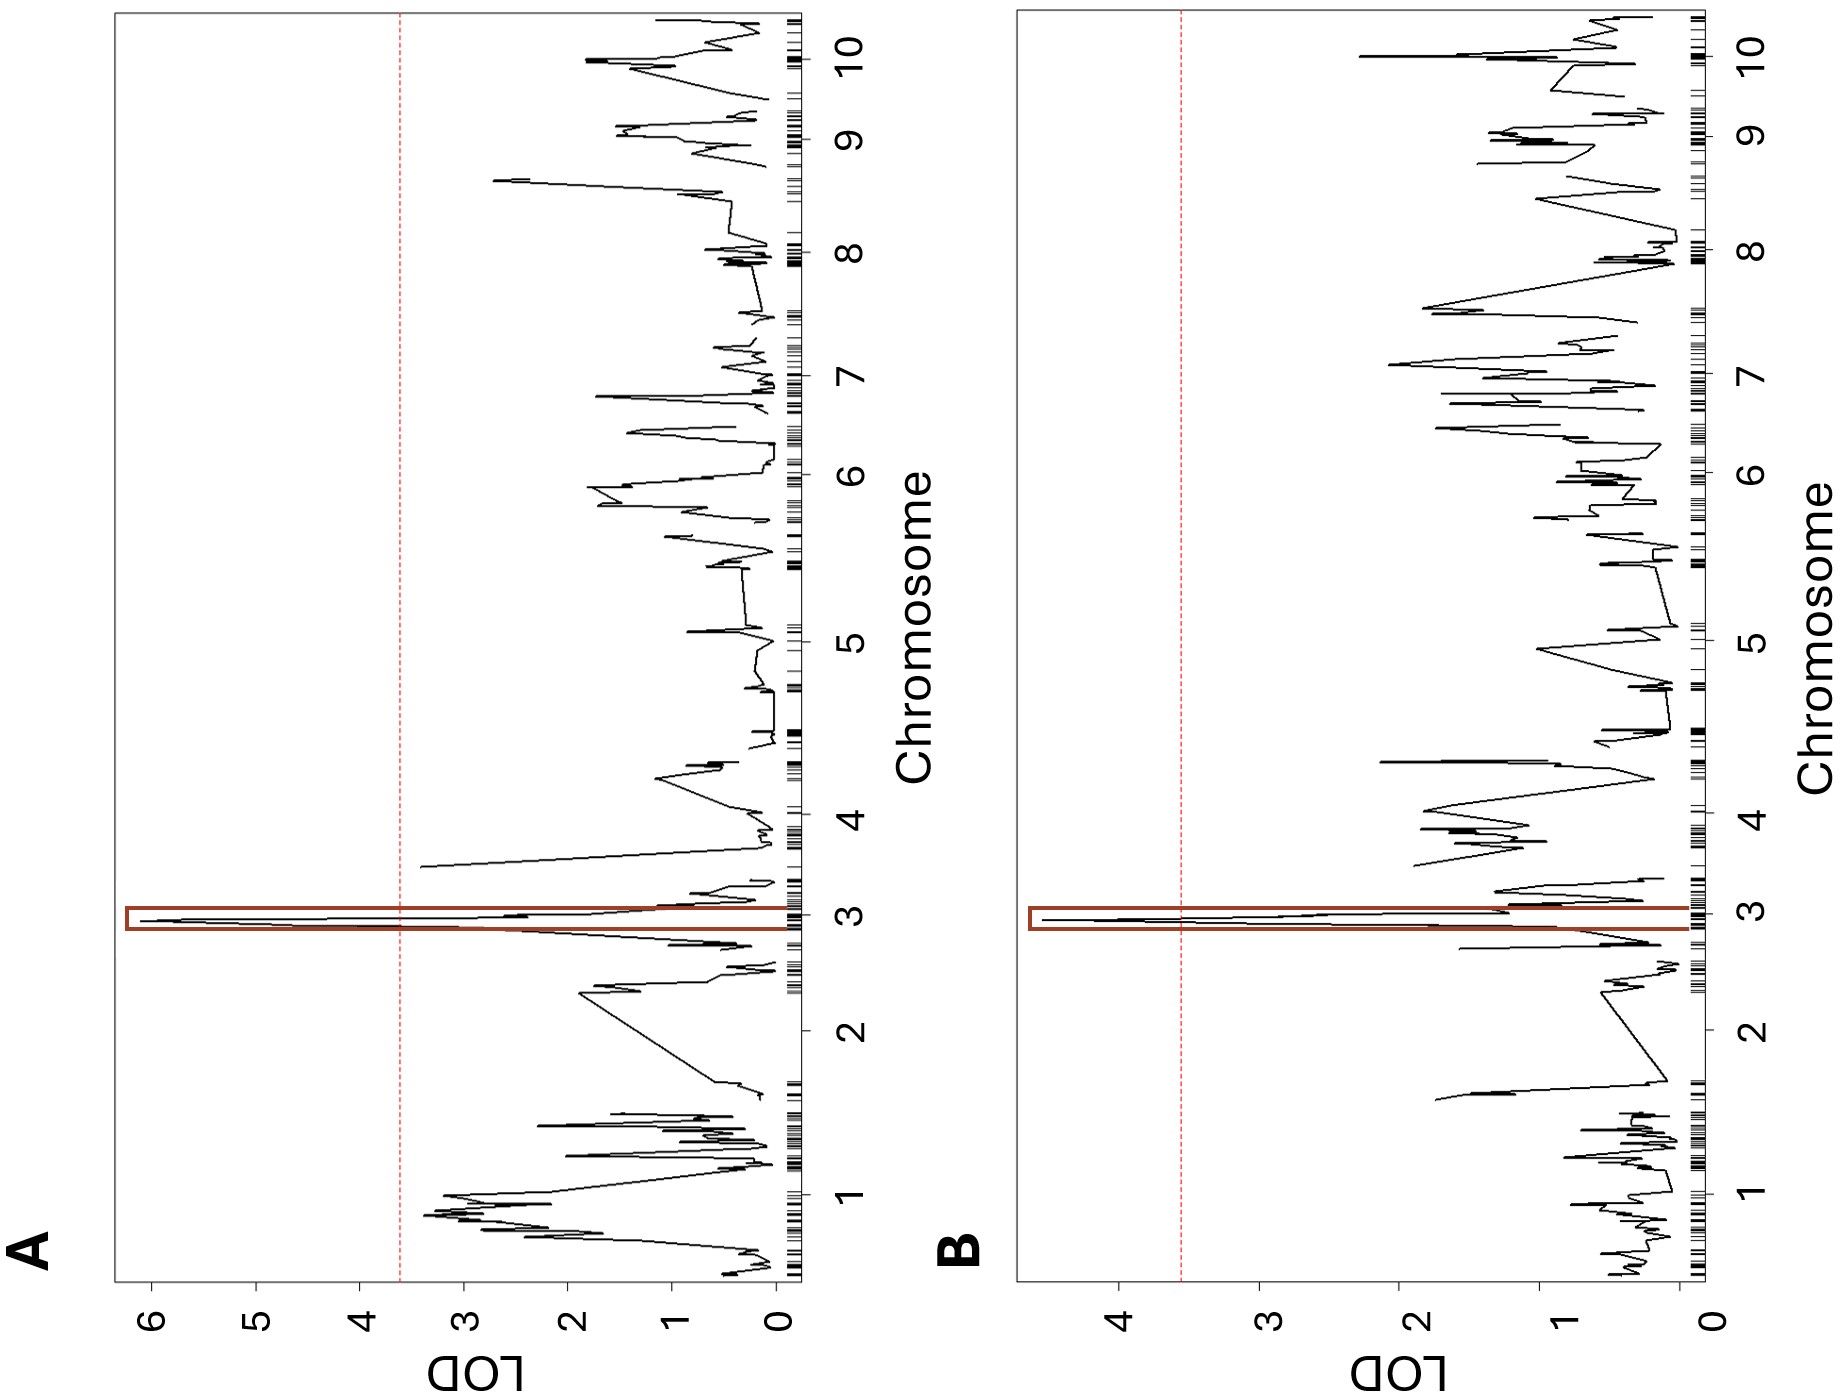
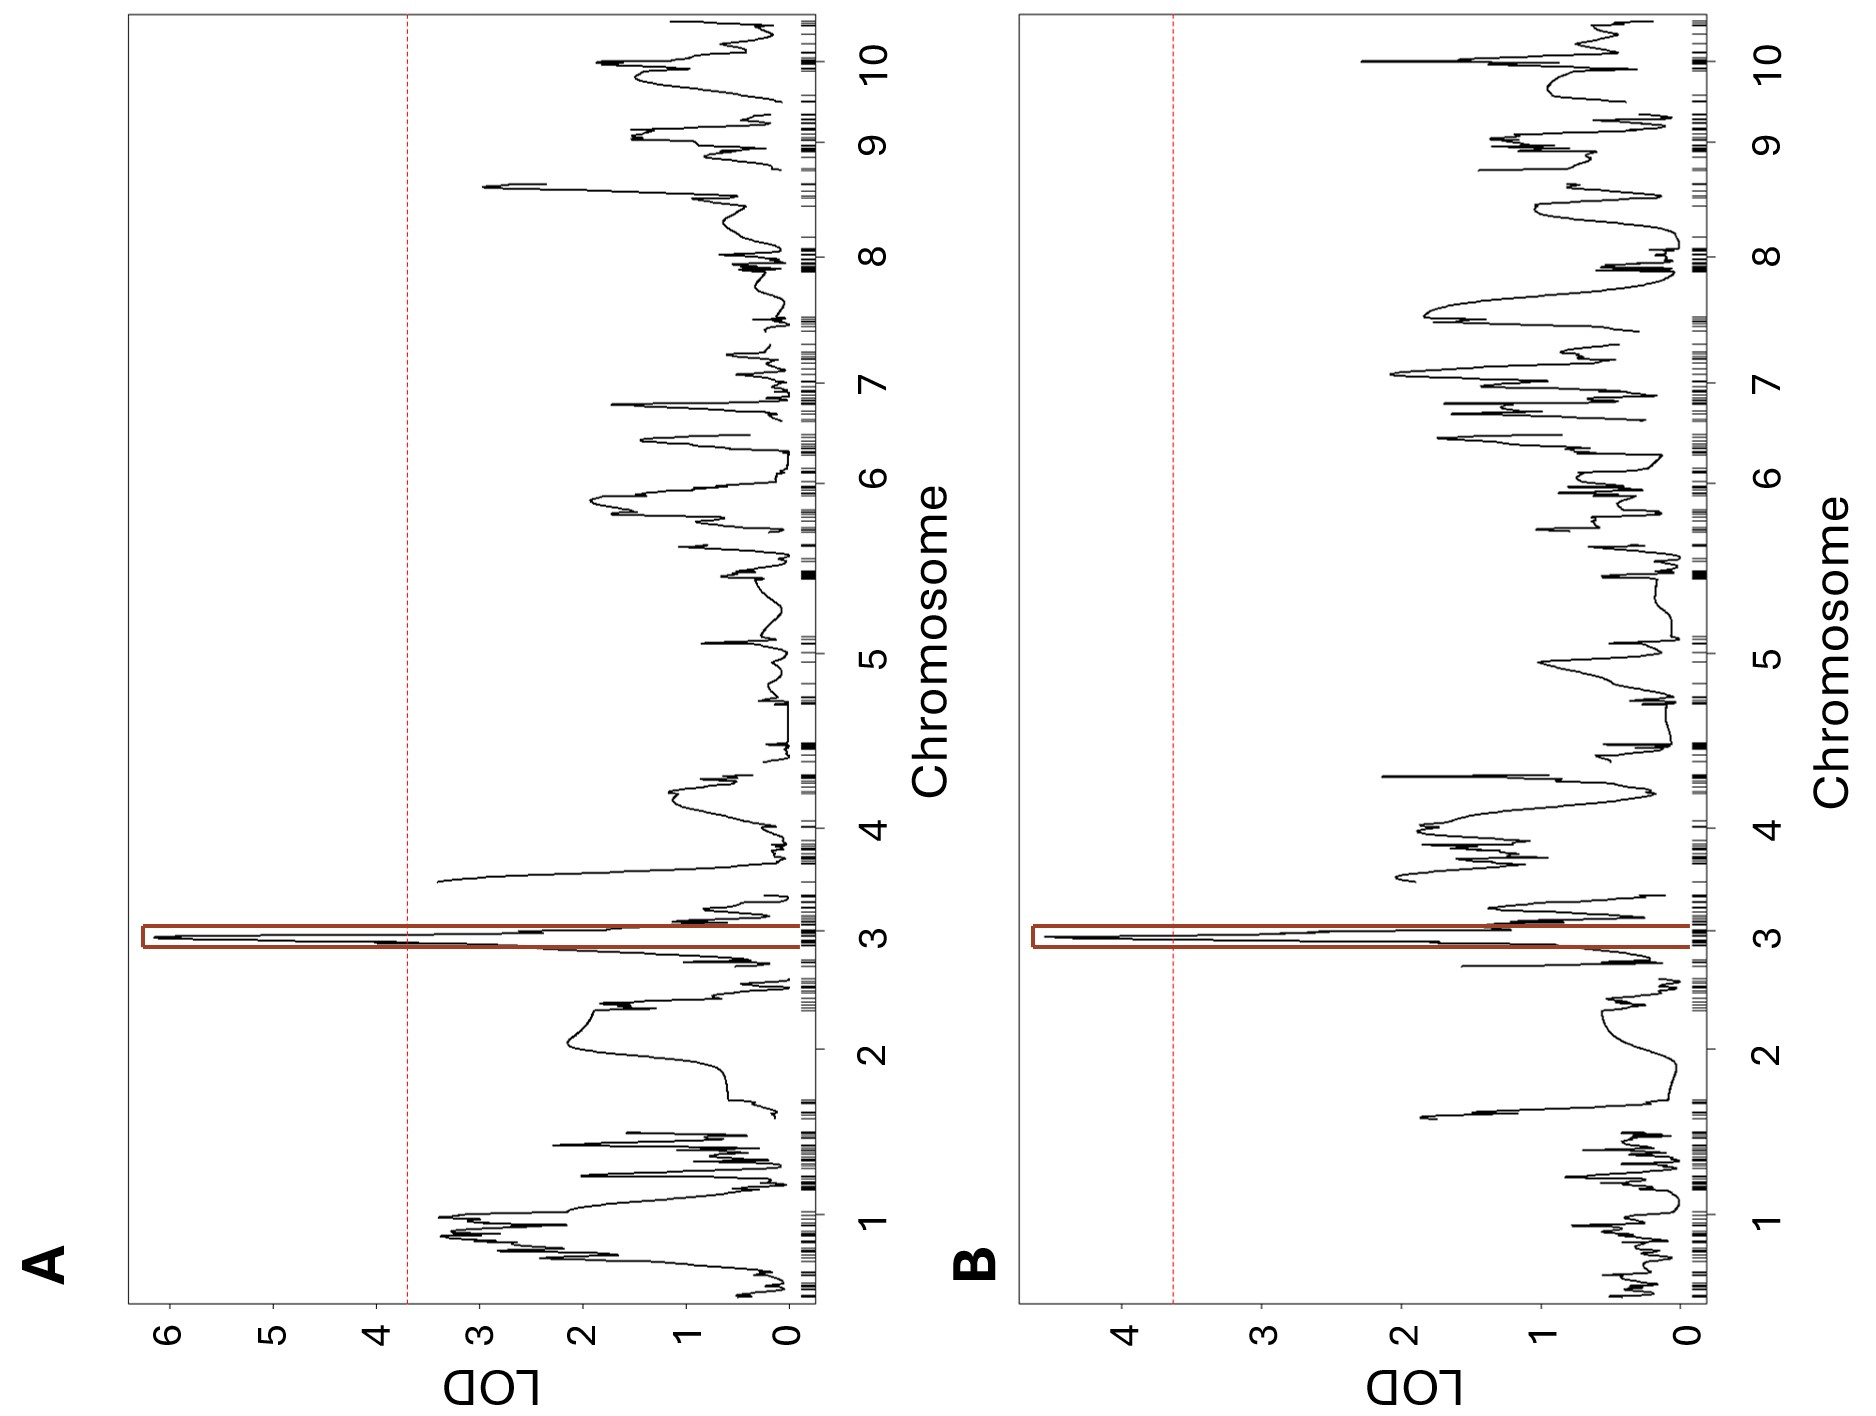
Updates from Overleaf

diff --git a/main.tex b/main.tex
@@ -355,7 +355,7 @@ Similarly, the broader Jarvis $F_{ST}$ outlier set revealed a stronger populatio
 
 We used a previously developed B64 $\times$ CML14 F$_{2:3}$ biparental population that had been used to map kernel free asparagine content (\cite{Fitzsimmons2026KernelKitchen}, InPrep). Although this population was originally selected for variation in asparagine rather than proline or aspartate, grain amino acid measurements for the same lines allowed us to test whether other amino acid traits also showed segregating genetic variation in this background. B64 and CML14 were not the most extreme lines for Pro and Asp in the Goodman–Buckler panel (Supplementary Fig. \ref{fig:suppfig_asp_pro_raw_values}). Thus, we treated this biparental family as an exploratory test of segregating amino acid variation. We focused on Pro and Asp because our other population data implicated these traits. Asp-family metabolism repeatedly emerged in the soil N GWAS and Indian Chief/Jarvis selection scans, while proline was strongly remodeled in Indian Chief and overlapped with recurrent-selection candidate regions.
 
-BLUPs for free Pro and Asp were calculated across two replicates and used for QTL mapping. Interval-mapping QTL scans were performed using Haley--Knott regression. The QTL scans for Pro and Asp identified the same QTL, while the three Asn traits identified another QTL (Fig. \ref{fig:fig6_qtl_pro_asp}). The genetic map consisted of 611 SNP markers (Fig. \ref{fig:fig6_qtl_pro_asp}) distributed across 10 linkage groups, and the significance threshold was determined after 1,000 permutations ($\alpha = 0.05$).
+BLUPs for free Pro and Asp were calculated across two replicates and used for QTL mapping. Interval-mapping QTL scans were performed using Haley--Knott regression. The QTL scans for Pro and Asp identified the same QTL, while the three Asn traits identified another QTL (Fig. \ref{fig:fig6_qtl_pro_asp}). The genetic map consisted of 611 SNP markers (Fig. \ref{fig:suppfig_genetic_map}, Supplementary Fig. ~\ref{fig:QTL_Aspartate}, Supplementary Fig. ~\ref{fig:QTL_Proline}) distributed across 10 linkage groups, and the significance threshold was determined after 1,000 permutations ($\alpha = 0.05$).
 
 % =========================
 % FIGURE 6
@@ -791,8 +791,48 @@ Estimated amino acid-derived nitrogen pools in Indian Chief and Jarvis at genera
     \label{fig:suppfig_asp_pro_raw_values}
 \end{figure*}
 
+
 % =========================
 % SUPP FIGURE S10
+% =========================
+\begin{figure*}[!htbp]
+\centering
+\includegraphics[width=\textwidth]{Figs/Supplementary/QTL_Aspartate.png}
+\caption{
+QTL for Free Aspartate. Identified from biparental F2:F3 mapping population on chromosome 3, with red dashed line representing threshold of significance.
+}
+\label{fig:QTL_Aspartate}
+\end{figure*}
+
+% =========================
+% SUPP FIGURE S11
+% =========================
+\begin{figure*}[!htbp]
+\centering
+\includegraphics[width=\textwidth]{Figs/Supplementary/QTL_Proline.png}
+\caption{
+QTL for Free Proline. Identified from biparental F2:F3 mapping population on chromosome 3, with red dashed line representing threshold of significance.
+}
+\label{fig:QTL_Proline}
+\end{figure*}
+
+
+
+% =========================
+% SUPP FIGURE S12
+% =========================
+\begin{figure*}[!htbp]
+\centering
+\includegraphics[width=\textwidth]{Figs/Supplementary/Nitrogen_map.png}
+\caption{
+Genetic map of F2:F3 mapping population
+}
+\label{fig:suppfig_genetic_map}
+\end{figure*}
+
+
+% =========================
+% SUPP FIGURE S13
 % =========================
 \begin{figure*}[!htbp]
 \centering
@@ -805,7 +845,7 @@ Heatmap showing log2-transformed expression values of genes in QTL confidence in
 
 
 % =========================
-% SUPP FIGURE S11
+% SUPP FIGURE S14
 % =========================
 
 
@@ -937,6 +977,15 @@ Heatmap showing log2-transformed expression values of genes in QTL confidence in
 \makeatother
 \label{S14_Table}
 \textbf{Paired comparisons of FAA and PBAA metrics across the Goodman--Buckler Association Panel.} Paired Wilcoxon signed-rank test results comparing FAA and PBAA values across matched Goodman--Buckler taxa for broad amino acid pool size, amino-acid-derived nitrogen proxy, proline fraction, and nitrogen-rich fraction.
+
+% --- Table S15 ---
+\paragraph*{S15 Table.}
+\phantomsection
+\makeatletter
+\def\@currentlabelname{S15 Table}
+\makeatother
+\label{S15_Table}
+\textbf{Candidate genes within the Pro/Asp QTL region with embryo RNA-seq expression.} RNA-seq expression values are shown for candidate genes in the chromosome~3 Pro/Asp QTL region across maize embryo developmental stages at 16, 18, 20, and 22 days after pollination (DAP). The table includes gene identifier, chromosome, genomic start position, gene annotation, and embryo-stage expression values. The full table is provided as \texttt{SuppTable\_15\_QTL\_genes\_RNAseq\_embryo}.
 
 
 \end{document}